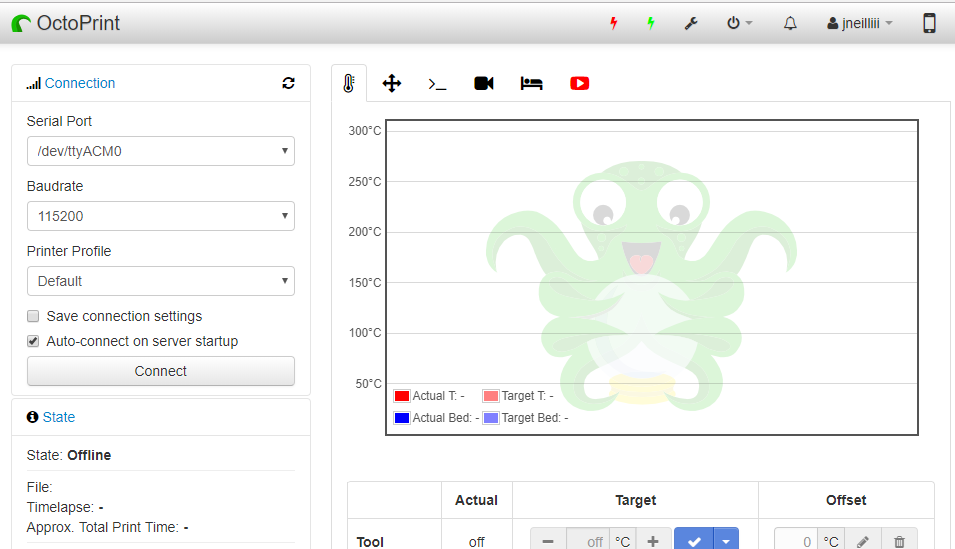
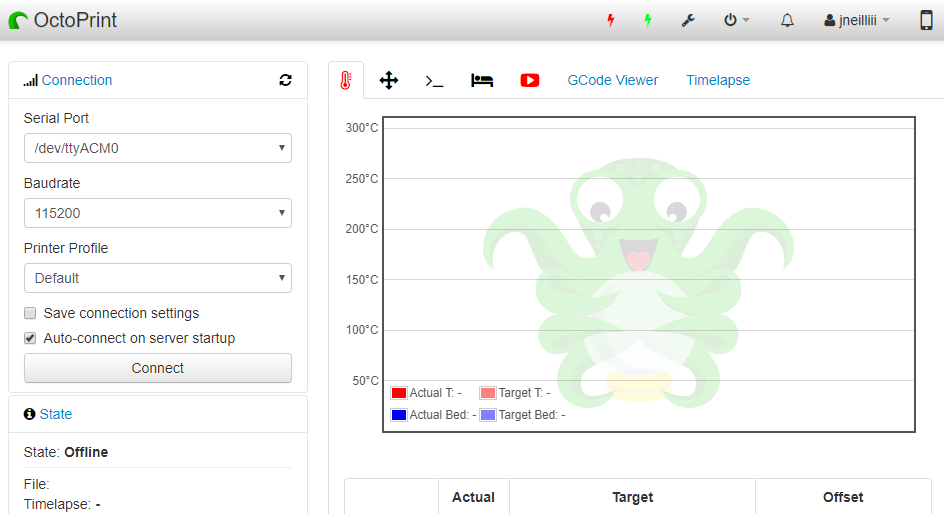
0.5.0

diff --git a/octoprint_taborder/static/js/taborder.js b/octoprint_taborder/static/js/taborder.js
@@ -6,16 +6,29 @@ $(function() {
 		self.tabs = ko.observableArray();
 		self.selectedTab = ko.observable();
 		self.reloadOverlay = undefined;
-		self.globaltabs = ko.computed(function() {
-								var arrOutput = ko.utils.arrayMap(self.tabs(), function(tab) {
-									return tab.name();
+		self.availableTabs = ko.observableArray();
+		self.assignedTabs = ko.computed(function(){
+								var tabs = ko.utils.arrayMap(self.tabs(), function(tab) {
+										return tab.name();
+									});
+								return tabs.sort();
+							});
+		self.unassignedTabs = ko.computed(function() {
+								//find out the categories that are missing from uniqueNames
+								var differences = ko.utils.compareArrays(self.availableTabs().sort(), self.assignedTabs().sort());
+								//return a flat list of differences
+								var results = [];
+								ko.utils.arrayForEach(differences, function(difference) {
+									if (difference.status === "deleted") {
+										results.push(difference.value);
+									}
 								});
-								return arrOutput;
+								return results;
 							});
 							
 		self.onBeforeBinding = function() {
             self.tabs(self.settings.settings.plugins.taborder.tabs());
-        }
+		}
 		
 		self.onEventSettingsUpdated = function (payload) {
             self.tabs(self.settings.settings.plugins.taborder.tabs());
@@ -24,7 +37,13 @@ $(function() {
 		
 		self.onAfterBinding = function(){
 			self.renderTabs();
-		}
+			$('ul#tabs li:not(.dropdown)').each(function(){
+				var tabid = $(this).attr('id');
+				if(tabid.match(/^(tab_)?(.+)_link$/g)){
+					self.availableTabs.push(tabid.replace('temp_link','temperature_link').replace('term_link','terminal_link').replace('gcode_link','gcodeviewer_link').replace(/^(tab_)?(.+)_link$/g,'$2'));
+				}
+			});
+        }
 		
 		self.renderTabs = function(){
 			ko.utils.arrayForEach(self.tabs(), function(tab) {
@@ -84,9 +103,9 @@ $(function() {
 				});
 			};
         };
-
-		self.addTab = function(data) {
-			self.settings.settings.plugins.taborder.tabs.push({'name':ko.observable(''),'icon':ko.observable(''),'showtext':ko.observable(true),'icon_color':ko.observable('#000000'),'icon_tooltip':ko.observable('')});
+		
+		self.addMissingTab = function(data) {
+			self.settings.settings.plugins.taborder.tabs.push({'name':ko.observable(data),'icon':ko.observable(''),'showtext':ko.observable(true),'icon_color':ko.observable('#000000'),'icon_tooltip':ko.observable('')});
             self.tabs(self.settings.settings.plugins.taborder.tabs());
 		}
 		

diff --git a/octoprint_taborder/__init__.py b/octoprint_taborder/__init__.py
@@ -14,10 +14,10 @@ class taborder(octoprint.plugin.AssetPlugin,
 		
 	##-- Settings mixin
 	def get_settings_defaults(self):
-		return dict(tabs=[{'name':'temperature','icon':'fa-thermometer','showtext':True,'icon_color':'#000000','icon_tooltip':'Temperature'},{'name':'control','icon':'fa-arrows','showtext':True,'icon_color':'#000000','icon_tooltip':'Control'},{'name':'gcodeviewer','icon':'fa-search','showtext':True,'icon_color':'#000000','icon_tooltip':'GCODE Viewer'},{'name':'terminal','icon':'fa-terminal','showtext':True,'icon_color':'#000000','icon_tooltip':'Terminal'},{'name':'timelapse','icon':'fa-video-camera','showtext':True,'icon_color':'#000000','icon_tooltip':'Timelapse'}])
+		return dict(tabs=[])
 		
 	def get_settings_version(self):
-		return 2
+		return 3
 		
 	def on_settings_migrate(self, target, current=None):
 		if current is None or current < self.get_settings_version():

diff --git a/setup.py b/setup.py
@@ -14,7 +14,7 @@ plugin_package = "octoprint_%s" % plugin_identifier
 plugin_name = "OctoPrint-TabOrder"
 
 # The plugin's version. Can be overwritten within OctoPrint's internal data via __plugin_version__ in the plugin module
-plugin_version = "0.4.1"
+plugin_version = "0.5.0"
 
 # The plugin's description. Can be overwritten within OctoPrint's internal data via __plugin_description__ in the plugin
 # module

diff --git a/README.md b/README.md
@@ -30,6 +30,9 @@ in settings.
 
 ## Changelog
 
+### [0.5.0] - 2018-05-12
+- Simplified the process for adding tabs based on existing tabs detected within the interface.
+
 ### [0.4.1] - 2018-05-10
 - Added icon color option and tooltip for hover text.
 
@@ -50,6 +53,7 @@ I programmed this plugin for fun and do my best effort to support those that hav
 
 [![paypal](https://www.paypalobjects.com/en_US/i/btn/btn_donateCC_LG.gif)](https://paypal.me/jneilliii)
 
+[0.5.0]: https://github.com/jneilliii/OctoPrint-TabOrder/tree/0.5.0
 [0.4.1]: https://github.com/jneilliii/OctoPrint-TabOrder/tree/0.4.1
 [0.4.0]: https://github.com/jneilliii/OctoPrint-TabOrder/tree/0.4.0
 [0.3.0]: https://github.com/jneilliii/OctoPrint-TabOrder/tree/0.3.0
